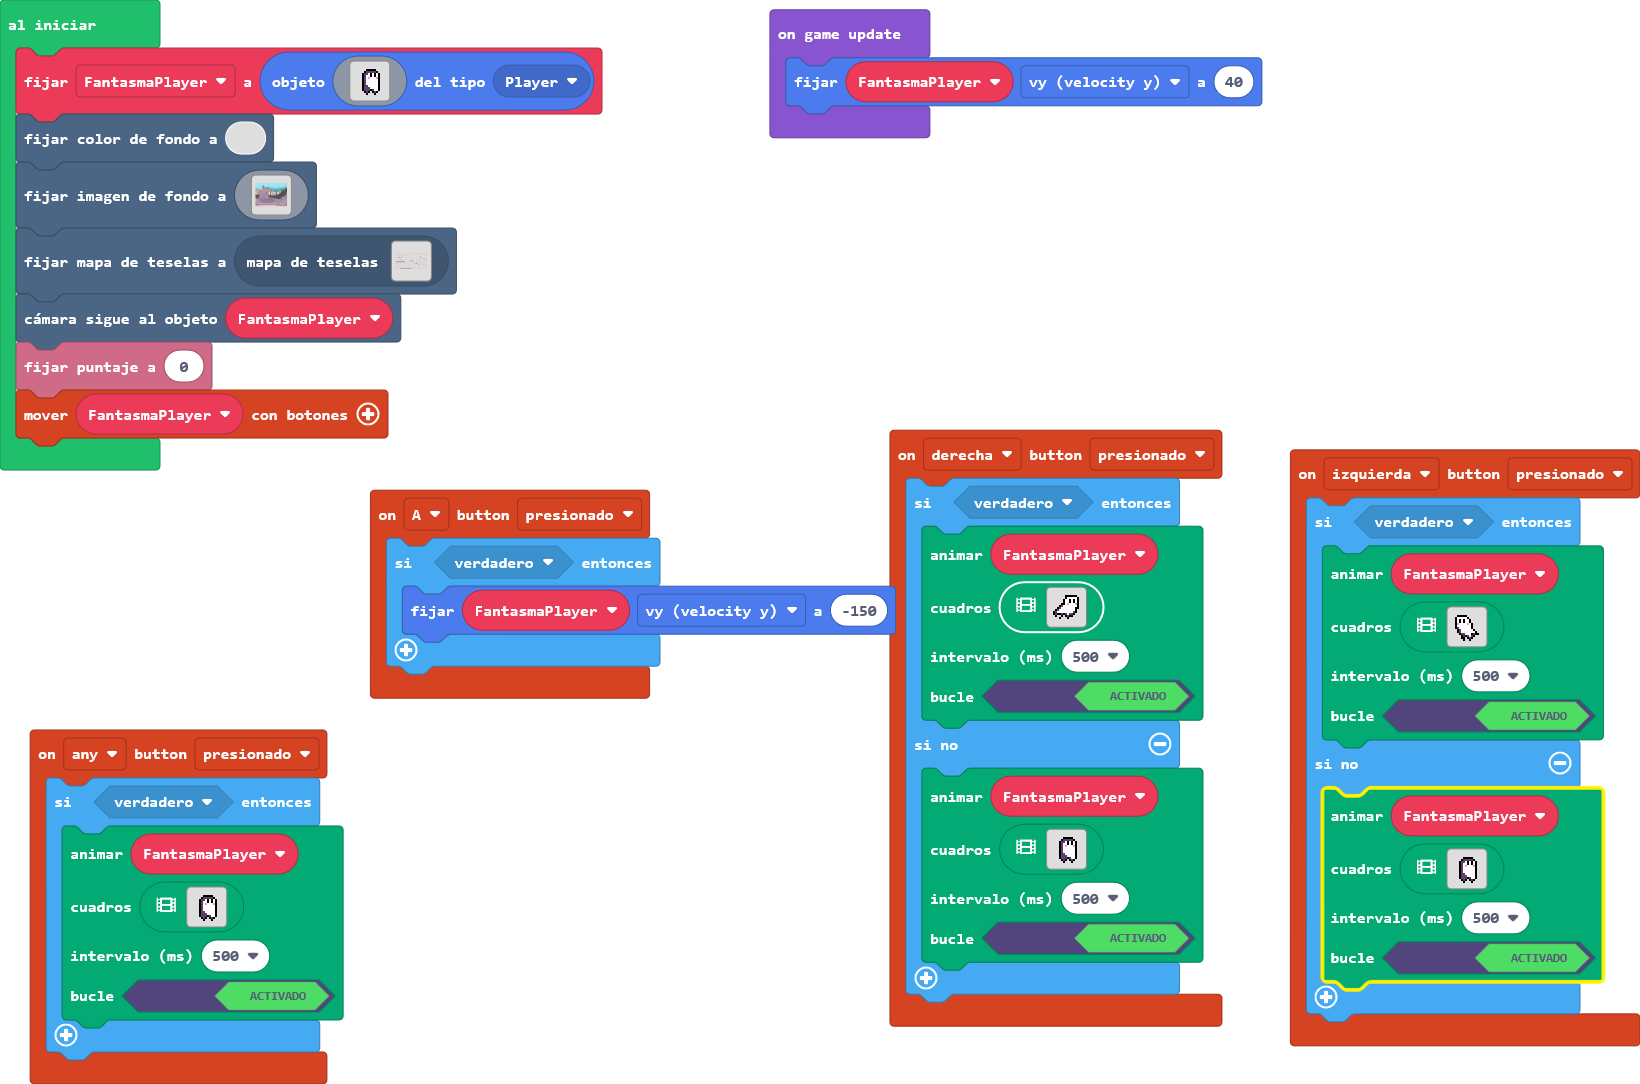
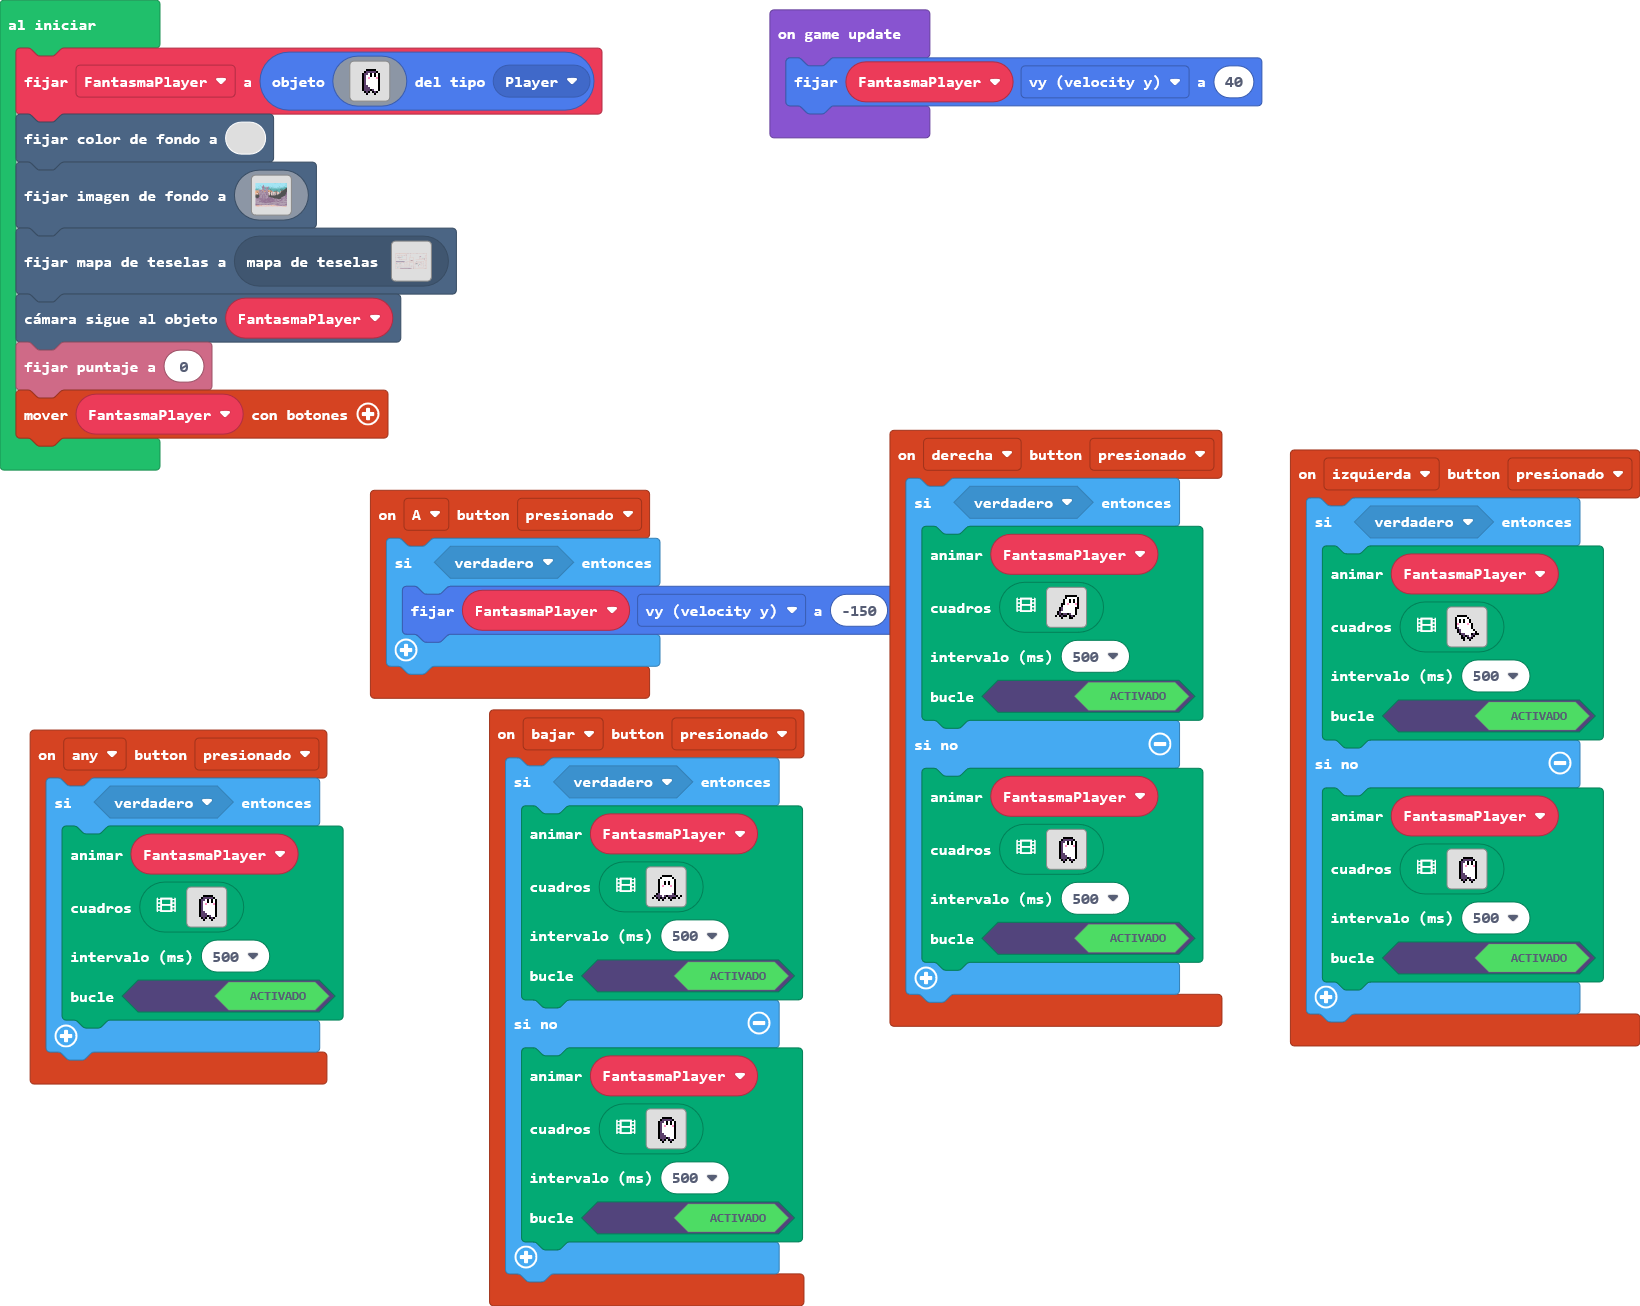
Actualizar main.blocks, main.ts

diff --git a/main.ts b/main.ts
@@ -59,6 +59,142 @@ controller.anyButton.onEvent(ControllerButtonEvent.Pressed, function () {
         )
     }
 })
+controller.down.onEvent(ControllerButtonEvent.Pressed, function () {
+    if (true) {
+        animation.runImageAnimation(
+        FantasmaPlayer,
+        [img`
+            . . . . . . . . . . . . . . . . 
+            . . . . . . . . . . . . . . . . 
+            . . . . . . f f f f f . . . . . 
+            . . . . . f 1 1 1 1 1 f . . . . 
+            . . . . f 1 1 1 1 1 1 1 f . . . 
+            . . . . f 1 1 f 1 f 1 1 f . . . 
+            . . . . f 1 1 f 1 f 1 1 f . . . 
+            . . . . f 1 3 1 1 1 3 1 f . . . 
+            . . . . f 1 1 1 1 1 1 1 f . . . 
+            . . . . f 1 1 1 1 1 1 1 f . . . 
+            . . . . f 1 1 1 1 1 1 1 f . . . 
+            . . . f c 1 1 1 1 1 1 c f . . . 
+            . . f c c c 1 c f c c c c f . f 
+            . f . f c f c f . f c f f . f . 
+            . . . . f . f . . . f . . . . . 
+            . . . . . . . . . . . . . . . . 
+            `,img`
+            . . . . . . . . . . . . . . . . 
+            . . . . . . . . . . . . . . . . 
+            . . . . . . f f f f f . . . . . 
+            . . . . . f 1 1 1 1 1 f . . . . 
+            . . . . f 1 1 1 1 1 1 1 f . . . 
+            . . . . f 1 1 f 1 f 1 1 f . . . 
+            . . . . f 1 1 f 1 f 1 1 f . . . 
+            . . . . f 1 3 1 1 1 3 1 f . . . 
+            . . . . f 1 1 1 1 1 1 1 f . . . 
+            . . . . f 1 1 1 1 1 1 1 f . . . 
+            . . . . f 1 1 1 1 1 1 1 f . . . 
+            . . . f c 1 1 1 1 1 1 c f . . . 
+            . . f c c c 1 c f c c c c f . f 
+            . f . f c f c f . f c f f . f . 
+            . . . . f . f . . . f . . . . . 
+            . . . . . . . . . . . . . . . . 
+            `,img`
+            . . . . . . . . . . . . . . . . 
+            . . . . . . . . . . . . . . . . 
+            . . . . . . f f f f f . . . . . 
+            . . . . . f 1 1 1 1 1 f . . . . 
+            . . . . f 1 1 1 1 1 1 1 f . . . 
+            . . . . f 1 1 f 1 f 1 1 f . . . 
+            . . . . f 1 1 f 1 f 1 1 f . . . 
+            . . . . f 1 3 1 1 1 3 1 f . . . 
+            . . . . f 1 1 1 1 1 1 1 f . . . 
+            . . . . f 1 1 1 1 1 1 1 f . . . 
+            . . . . f 1 1 1 1 1 1 1 f . . f 
+            f . f f c 1 1 1 1 1 1 c f . f . 
+            . f c c c c c c f c c c c f . . 
+            . . f f f f f f . . f f c f f . 
+            . . . f . f . . . . . . f . . . 
+            . . . . . . . . . . . . . . . . 
+            `,img`
+            . . . . . . . . . . . . . . . . 
+            . . . . . . . . . . . . . . . . 
+            . . . . . . f f f f f . . . . . 
+            . . . . . f 1 1 1 1 1 f . . . . 
+            . . . . f 1 1 1 1 1 1 1 f . . . 
+            . . . . f 1 1 f 1 f 1 1 f . . . 
+            . . . . f 1 1 f 1 f 1 1 f . . . 
+            . . . . f 1 3 1 1 1 3 1 f . . . 
+            . . . . f 1 1 1 1 1 1 1 f . . . 
+            . . . . f 1 1 1 1 1 1 1 f . . . 
+            . . . . f 1 1 1 1 1 1 1 f . . . 
+            . . . f c 1 1 1 1 1 1 c f . . . 
+            . . f c c c 1 c f c c c c f . f 
+            . f . f c f c f . f c f f . f . 
+            . . . . f . f . . . f . . . . . 
+            . . . . . . . . . . . . . . . . 
+            `],
+        500,
+        true
+        )
+    } else {
+        animation.runImageAnimation(
+        FantasmaPlayer,
+        [img`
+            . . . . . . . . . . . . . . . . 
+            . . . . . . . . . . . . . . . . 
+            . . . . . . f f f f f . . . . . 
+            . . . . . f c c c c c f . . . . 
+            . . . . f c c 1 f 1 f 1 f . . . 
+            . . . . f c 1 1 f 1 f 1 f . . . 
+            . . . . f c 1 3 1 1 1 3 f . . . 
+            . . . . f c 1 1 1 1 1 1 f . . . 
+            . . . . f c 1 1 1 1 1 1 f . . . 
+            . . . . f c 1 1 1 1 1 1 f . . . 
+            . . . . f c c 1 1 1 1 1 f . . . 
+            . . . . f c c c 1 1 1 1 f . . . 
+            . . . . f c c c f c 1 1 f . . . 
+            . . . . . f c f . f c f . . . . 
+            . . . . . . f . . . f . . . . . 
+            . . . . . . . . . . . . . . . . 
+            `,img`
+            . . . . . . f f f f f . . . . . 
+            . . . . . f c c c c c f . . . . 
+            . . . . f c c 1 f 1 f 1 f . . . 
+            . . . . f c 1 1 f 1 f 1 f . . . 
+            . . . . f c 1 3 1 1 1 3 f . . . 
+            . . . . f c 1 1 1 1 1 1 f . . . 
+            . . . . f c 1 1 1 1 1 1 f . . . 
+            . . . . f c 1 1 1 1 1 1 f . . . 
+            . . . . f c c 1 1 1 1 1 f . . . 
+            . . . . f c c c 1 1 1 1 f . . . 
+            . . . . f c c c f c 1 1 f . . . 
+            . . . . . f c f . f c f . . . . 
+            . . . . . . f . . . f . . . . . 
+            . . . . . . . . . . . . . . . . 
+            . . . . . . . . . . . . . . . . 
+            . . . . . . . . . . . . . . . . 
+            `,img`
+            . . . . . . . . . . . . . . . . 
+            . . . . . . f f f f f . . . . . 
+            . . . . . f c c c c c f . . . . 
+            . . . . f c c 1 f 1 f 1 f . . . 
+            . . . . f c 1 1 f 1 f 1 f . . . 
+            . . . . f c 1 3 1 1 1 3 f . . . 
+            . . . . f c 1 1 1 1 1 1 f . . . 
+            . . . . f c 1 1 1 1 1 1 f . . . 
+            . . . . f c 1 1 1 1 1 1 f . . . 
+            . . . . f c 1 1 1 1 1 1 f . . . 
+            . . . . f c 1 1 1 1 1 1 1 f . . 
+            . . . f c c c c 1 1 1 f c f . . 
+            . . f . f c f f c f f . f c f . 
+            . . . . . f . . f . . . . f . . 
+            . . . . . . . . . . . . . . . . 
+            . . . . . . . . . . . . . . . . 
+            `],
+        500,
+        true
+        )
+    }
+})
 controller.right.onEvent(ControllerButtonEvent.Pressed, function () {
     if (true) {
         animation.runImageAnimation(
